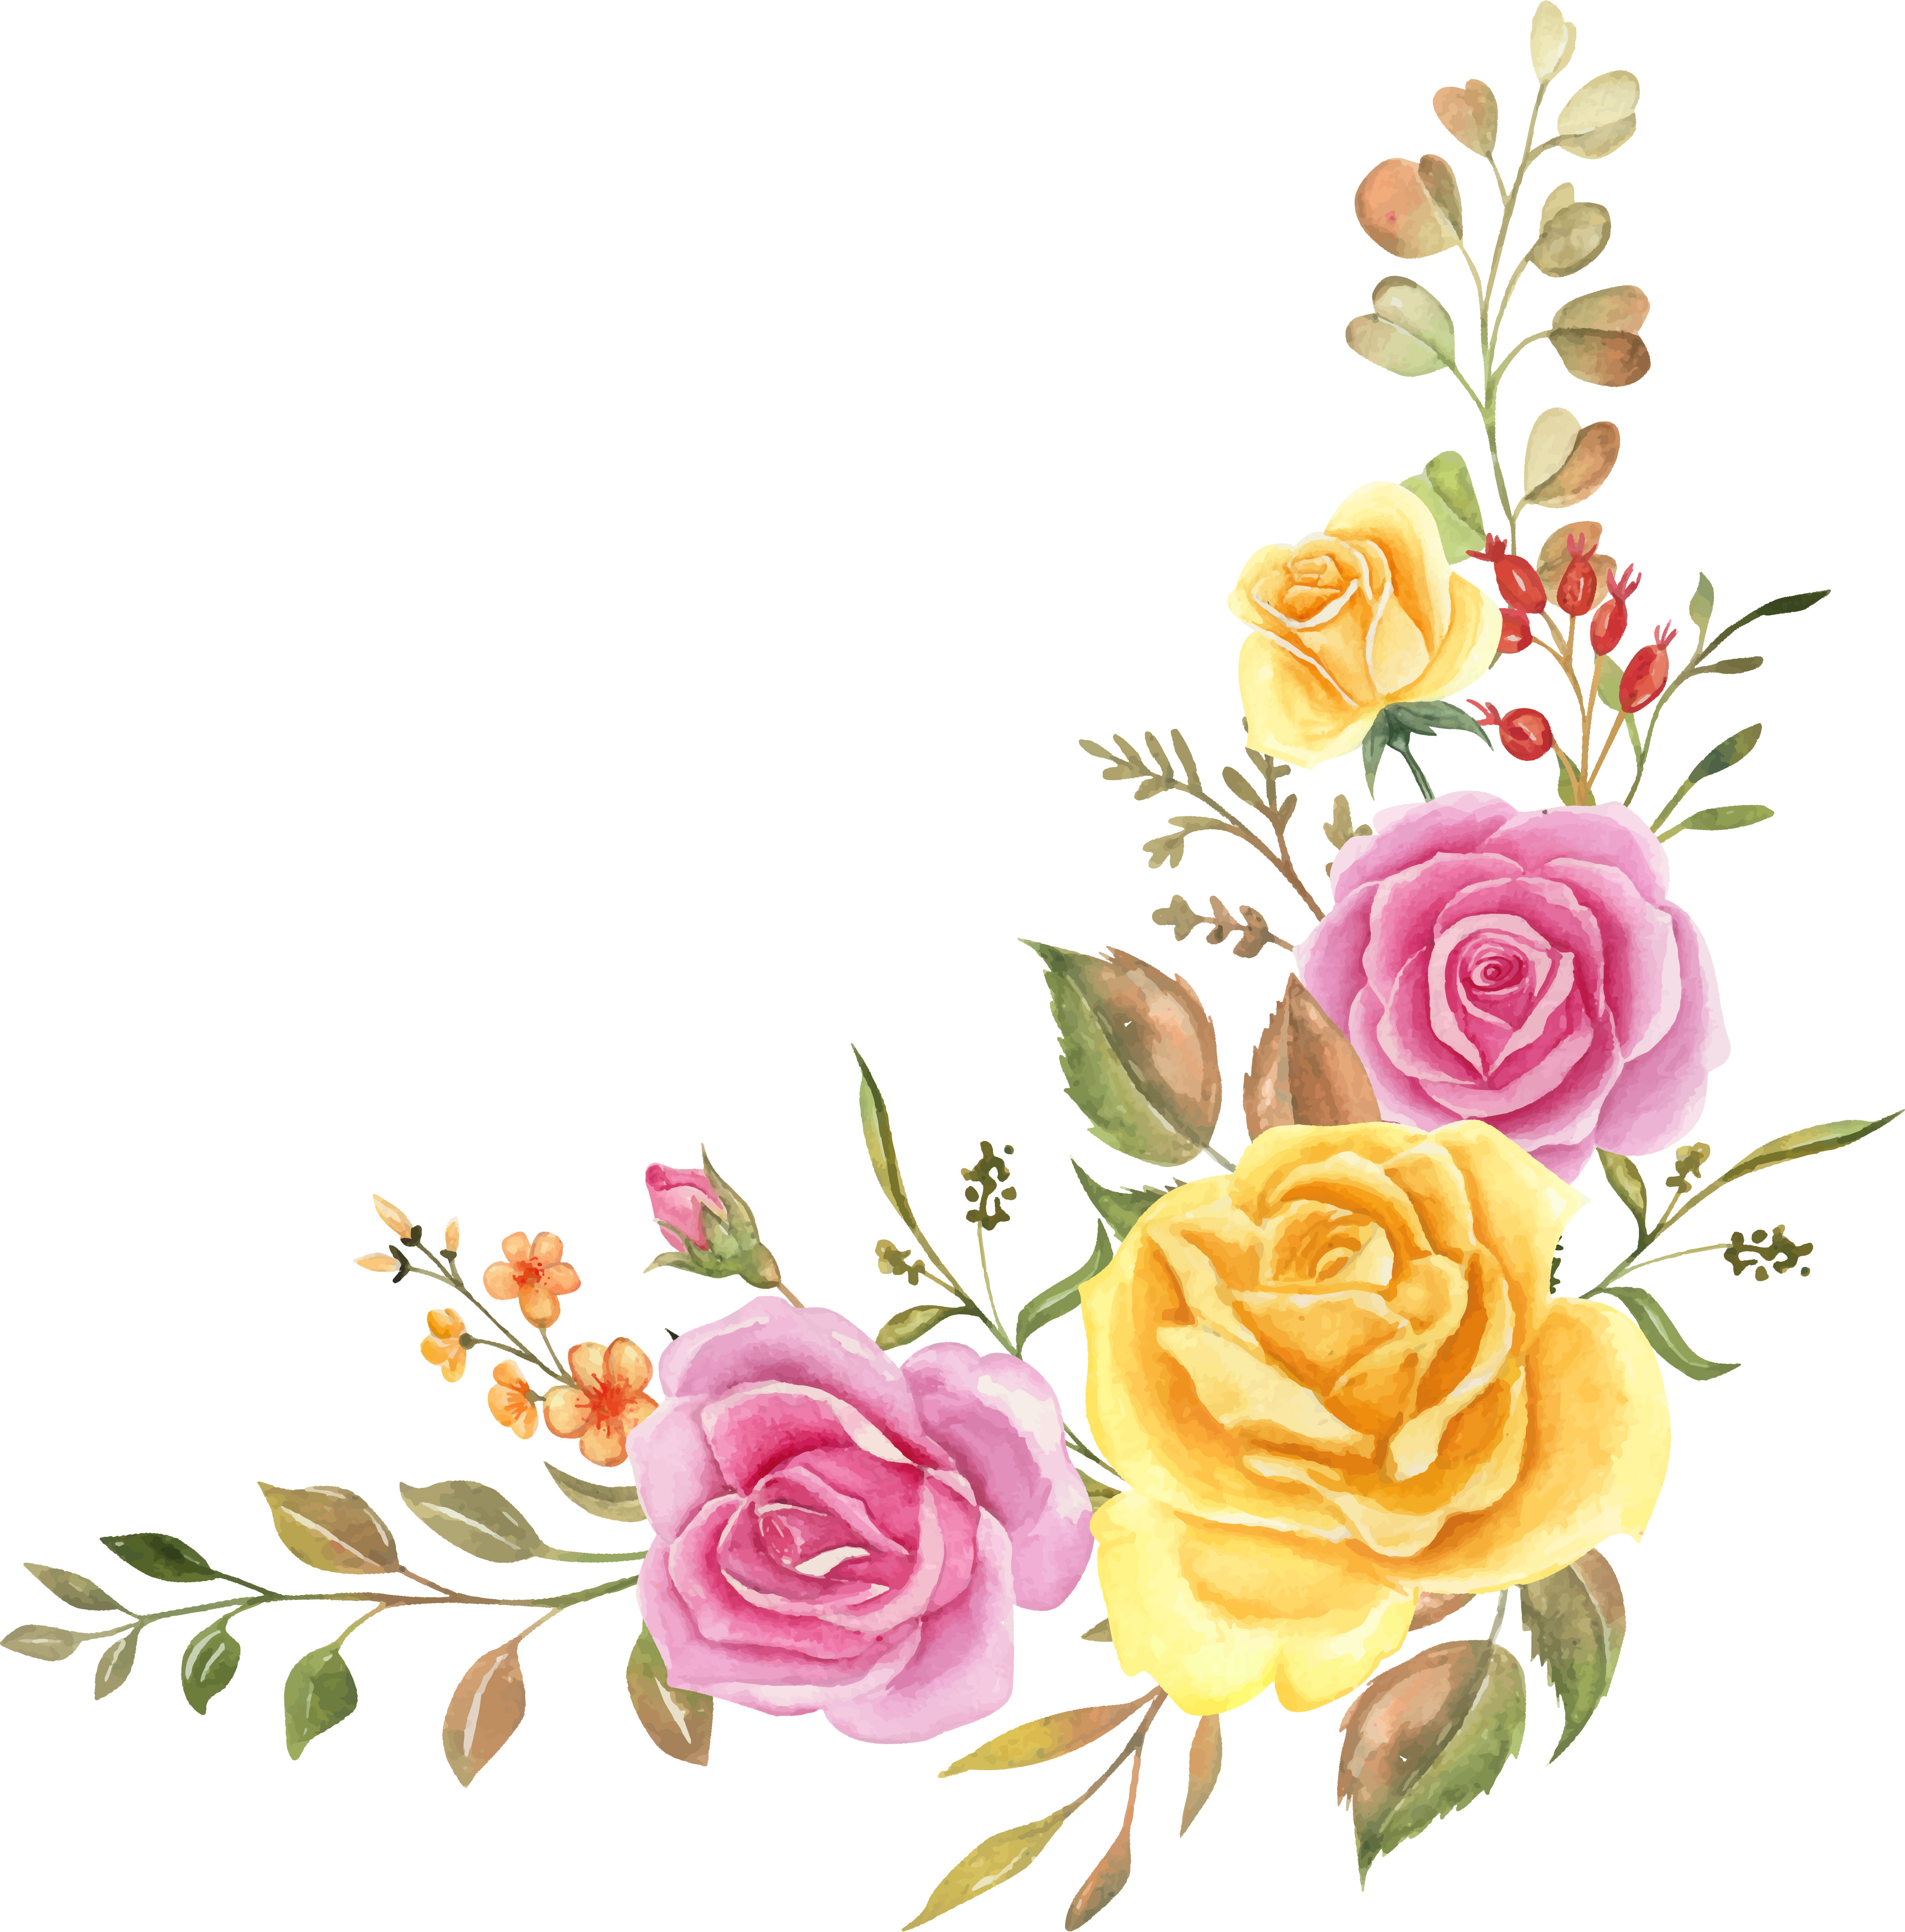
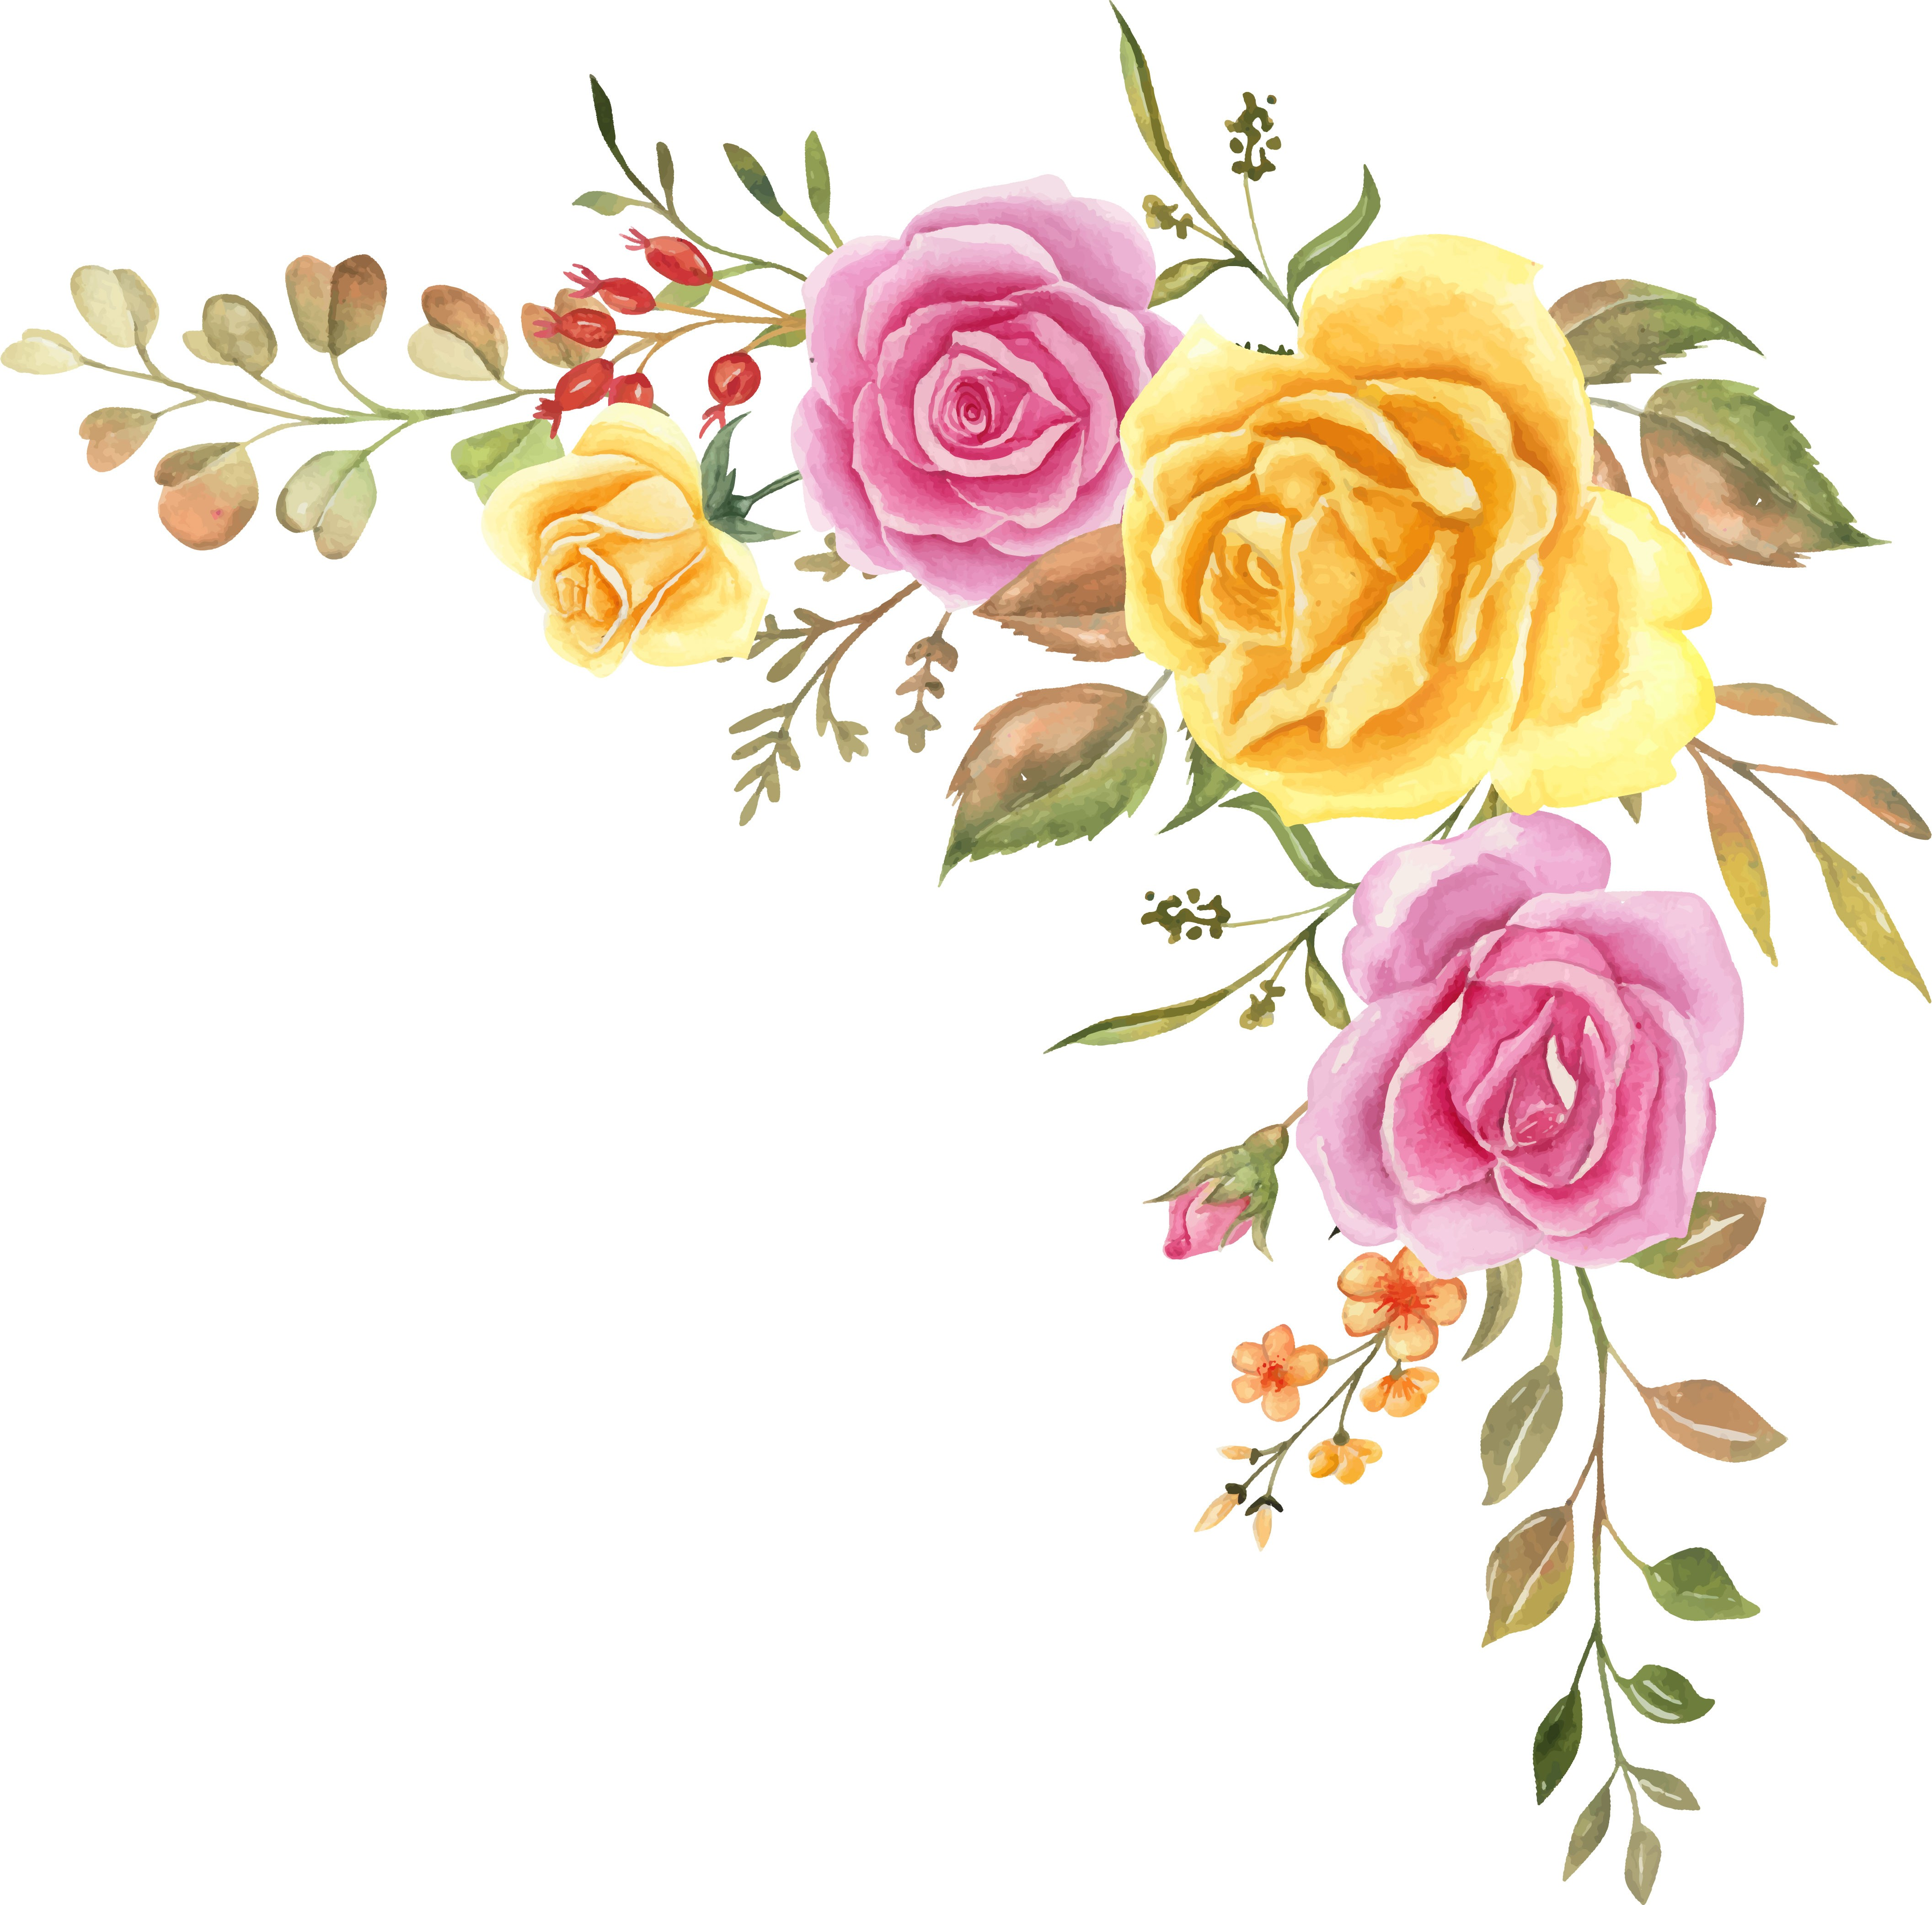
success add watched number and rotate in videolist

diff --git a/index.html b/index.html
@@ -16,11 +16,12 @@
   </head>
   <body>
     <div>
-      <input type="search" id="site-search" placeholder="Movie..." />
+      <input id="site-search" placeholder="Movie..." />
       <input id="keywordbox" placeholder="keyword.." />
       <input id="min" placeholder="min.." />
       <input id="max" placeholder="max.." />
       <input id="series" placeholder="series.." />
+      <button id="search-button">Search</button>
     </div>
     <div class="player-container" id="movie_player">
       <video id="video" class="video-js" controls autoplay>
@@ -154,29 +155,34 @@
       }
 
       async function queryToIncreaseWatched(epname, keyword) {
-        //currently this only support in segmentations' tag, 
+        //currently this only support in segmentations' tag,
         //epname: supreme_leader_EP102_17213566_446465, keyword: important
         try {
+          // var urlQuery = new URL(
+          //   "https://democors-210398985503.europe-west1.run.app",
+          // );
 
           var urlQuery = new URL(
             "https://backendincreasewatched-210398985503.europe-west1.run.app",
           );
+
           urlQuery.searchParams.set("epname", epname);
 
           urlQuery.searchParams.set("keyword", keyword);
 
-
           const response = await fetch(urlQuery);
-          const data = await response.json();
-          console.log("This is in async function, so can print in anytime, just for debugging:", data);
-   
+          const data = await response.text();
+          console.log(
+            "This is in async function, so can print in anytime, just for debugging:",
+            data,
+          );
+
           return data;
           // no need to get data
         } catch (error) {
           console.error("Fetch failed:", error);
         }
       }
-
 
       function Eposide(name, url, content, subtitlePaths, Additional2) {
         textTractArray = [];
@@ -200,7 +206,7 @@
         }
 
         return {
-          name: name.split("_EP").at(-1).split("_")[0],
+          name: "EP" + name.split("_EP").at(-1).split("_")[0]  + " Watched " + getMinWatched(keyword, { Additional2: Additional2 }) , 
           fullname: name,
           description: "this is an adventure, so feel free to try !",
           // duration: parseInt(name.split("_EP").at(-1).split('_')[0]), // will appear the convert number in min on result 1:42 for ep 102 !
@@ -220,6 +226,30 @@
         };
       }
 
+      function getMinWatched(keyword, item) {
+        // Parse JSON from item.Additional2
+        const patternsList = JSON.parse(item.Additional2.replaceAll("\'", '"'));
+
+        // Array to store watched values that match the keyword
+        const watchedValues = [];
+
+        // Loop through each pattern in patternsList
+        patternsList.forEach((pattern) => {
+          // Create regex from pattern.pattern and test if it matches keyword
+          try {
+            const regex = new RegExp(keyword, "i"); // case-insensitive
+            if (regex.test(pattern.pattern)) {
+              watchedValues.push(pattern.watched);
+            }
+          } catch (e) {
+            console.error("Invalid regex pattern:", keyword, "Error:", e);
+          }
+        });
+
+        // Return the minimum of all watched values, or null if no matches found
+        return watchedValues.length > 0 ? Math.min(...watchedValues) : null;
+      }
+
       async function createPlaylist(movieName, range) {
         subtitlePaths = [];
         arraySource = [];
@@ -236,7 +266,7 @@
           var removeItems = [];
 
           querryArray.forEach((item, index) => {
-            console.log("check content for keyword arrange", item.content);
+            // console.log("check content for keyword arrange", item.content);
             if (item.content.toLowerCase().includes("important")) {
               importantContent.push(item);
               removeItems.push(index);
@@ -248,6 +278,17 @@
           querryArray = querryArray.filter(
             (item, index) => !removeItems.includes(index),
           );
+
+          importantContent.sort(
+            (a, b) => getMinWatched(keyword, a) - getMinWatched(keyword, b),
+          );
+          querryArray.sort(
+            (a, b) => getMinWatched(keyword, a) - getMinWatched(keyword, b),
+          );
+          actionContent.sort(
+            (a, b) => getMinWatched(keyword, a) - getMinWatched(keyword, b),
+          );
+
           querryArray = importantContent
             .concat(querryArray)
             .concat(actionContent);
@@ -393,7 +434,7 @@
         player.on("ended", function () {
           currentEp =
             player.playlistMenu.items[player.playlist.currentItem()].item;
-          console.log("Current item has finished playing:",currentEp.fullname);
+          // console.log("Current item has finished playing:", currentEp.fullname);
           queryToIncreaseWatched(currentEp.fullname, keyword);
 
           // Your code here
@@ -406,6 +447,8 @@
           // 1. handle note editor
           document.title = currentEp.fullname;
           document.querySelector("#video_title").textContent = document.title;
+          const regex = new RegExp(keyword, "i"); // case-insensitive
+
           // 2. move the the correct timestamp
           if (
             currentEp.patterns != "" &&
@@ -425,7 +468,8 @@
                 "with keyword",
                 keyword,
               );
-              if (item.pattern.includes(keyword)) {
+              if (regex.test(item.pattern)) {
+                // if (item.pattern.includes(keyword)) {
                 player.currentTime(
                   item.timestamp
                     .split(":")
@@ -462,14 +506,14 @@
     </script>
 
     <script>
-      const searchInput = document.querySelector('input[type="search"]');
+      const searchButton = document.querySelector('#search-button');
       const min = document.querySelector("#min");
       const max = document.querySelector("#max");
       const series = document.querySelector("#series");
       const keywordbox = document.querySelector("#keywordbox");
       let keyword = ""; //global declaration
 
-      searchInput.addEventListener("search", (event) => {
+      searchButton.addEventListener("click", (event) => {
         keyword = keywordbox.value.trim();
         console.log("initial keyword", keyword);
 